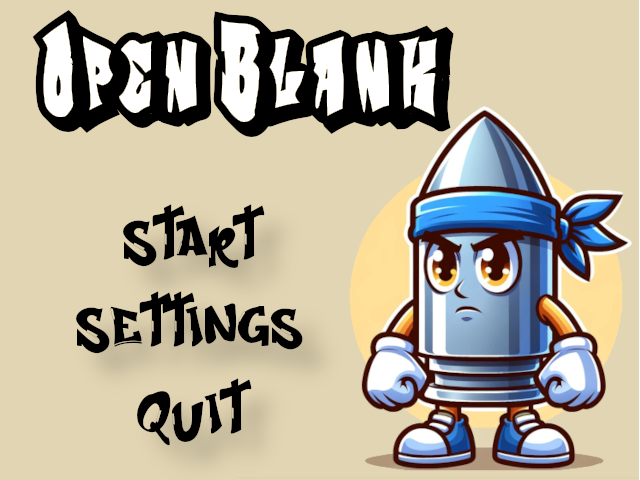
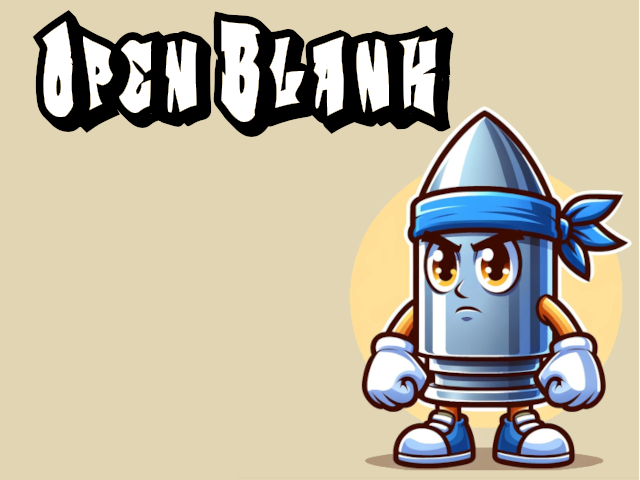
More work on the target system, textures loaded separately and made some more types of targets

Changed region(s): [[0.0938, 0.4062, 0.5, 0.7812], [0.1875, 0.7812, 0.4062, 0.9688]]

diff --git a/LTarget.cpp b/LTarget.cpp
@@ -14,20 +14,24 @@ LTarget::LTarget()
 	mWidth = 40; //FIXME
 	mHeight = 40;
 	mType = TARGET_NONE;
-	setDeathFunc(NULL);
+	setDeathFunc(nullptr);
 	//mCurrentSprite = BUTTON_SPRITE_MOUSE_OUT;
 }
 
 void LTarget::hit()
 {
 	//Target was hit, do some stuff
-	if (mType != TARGET_BUTTON)
+	//TODO this is skeleton code that will need to be replaced
+	if (mType != TARGET_BUTTON && mType != TARGET_IMAGE)
 	{
 		players[0].addHit (1);
 		fprintf (stdout, "HIT %i\n", players[0].getHits());
+		mType = TARGET_NONE;
+		free();
 	}
-	mType = TARGET_NONE;
-	callDeathFunc();
+
+	if (mType != TARGET_IMAGE)
+		callDeathFunc();
 
 }
 
@@ -86,56 +90,35 @@ void LTarget::movement()
 	}
 }
 
-bool LTarget::loadFromFile( std::string path )
+//TODO add custom function pointer stuff
+bool add_target (int x, int y, LTargetType type, int width, int height, int texture)
 {
-	//Get rid of preexisting texture
-	free();
-
-	//The final texture
-	SDL_Texture* newTexture = NULL;
-
-	//Load image at specified path
-	SDL_Surface* loadedSurface = IMG_Load( path.c_str() );
-	if( loadedSurface == NULL )
+	int i;
+	//Find an empty target spot
+	for (i = 0; i < MAX_TARGETS; i++)
 	{
-		printf( "Unable to load image %s! SDL_image Error: %s\n", path.c_str(), IMG_GetError() );
-	}
-	else
-	{
-		//Color key image
-		SDL_SetColorKey( loadedSurface, SDL_TRUE, SDL_MapRGB( loadedSurface->format, 0, 0xFF, 0xFF ) );
-
-		//Create texture from surface pixels
-        newTexture = SDL_CreateTextureFromSurface( gRenderer, loadedSurface );
-		if( newTexture == NULL )
+		fprintf (stdout, "#%i type %i\n", i, gTargets[i].getType());
+		//Fill it with the data
+		//TODO Add in defaults
+		if (gTargets[i].getType() == TARGET_NONE)
 		{
-			printf( "Unable to create texture from %s! SDL Error: %s\n", path.c_str(), SDL_GetError() );
+			fprintf (stdout, "Creating target #%i type %i\n", i, type);
+			gTargets[i].setPosition (x, y);
+			gTargets[i].setType (type);
+			fprintf (stdout, "Type is now %i\n", gTargets[i].getType());
+			gTargets[i].mHeight = height;
+			gTargets[i].mWidth = width;
+			gTargets[i].textureNumber = texture;
+			return true;
 		}
-		else
-		{
-			//Get image dimensions
-			mWidth = loadedSurface->w;
-			mHeight = loadedSurface->h;
-		}
-
-		//Get rid of old loaded surface
-		SDL_FreeSurface( loadedSurface );
 	}
-
-	//Return success
-	mTexture = newTexture;
-	return mTexture != NULL;
+	fprintf (stderr, "No target for you!");
+	return false;
 }
-
 
 void LTarget::free()
 {
 	//Free texture if it exists
-	if( mTexture != NULL )
-	{
-		SDL_DestroyTexture( mTexture );
-	}
-	mTexture = NULL;
 	mWidth = 0;
 	mHeight = 0;
 	mType = TARGET_NONE;
@@ -163,7 +146,7 @@ void LTarget::render()
 	}
 */
 	//Render to screen
-	SDL_RenderCopyEx( gRenderer, mTexture, NULL, &renderQuad, mAngle, &mCenter, mFlip );
+	SDL_RenderCopyEx( gRenderer, textures[textureNumber].getTexture(), NULL, &renderQuad, mAngle, &mCenter, mFlip );
 }
 
 

diff --git a/Title.cpp b/Title.cpp
@@ -20,16 +20,24 @@ void button_start_hit ()
 void Title::start()
 {
 	game.setState (STATE_TITLESCREEN);
-	if ( !gTitlescreen.loadFromFile ("./data/png/titlescreen.png"))
+	if ( !textures[0].loadFromFile ("./data/png/button_start.png"))
+	{
+		fprintf (stderr, "Error loading texture! %s\n", SDL_GetError ());
+		quit = true;
+	}
+	
+	if ( !textures[1].loadFromFile ("./data/png/titlescreen.png"))
 	{
 		fprintf (stderr, "Error loading texture! %s\n", SDL_GetError ());
 		quit = true;
 	}
 
-	gTargets[0].loadFromFile ("./data/png/button_start.png");
-	gTargets[0].setPosition (82, 193);
-	gTargets[0].setType (TARGET_BUTTON);
-	gTargets[0].setDeathFunc (button_start_hit);
+	//gTargets[0].loadFromFile ("./data/png/button_start.png");
+	add_target (0,0, TARGET_IMAGE, textures[1].getWidth() * SCALE_X, textures[1].getHeight(), 1);
+	add_target (82,193, TARGET_BUTTON, textures[0].getWidth() * SCALE_X, textures[0].getHeight(), 0);
+	gTargets[0].setDeathFunc (NULL);
+	gTargets[1].setDeathFunc (button_start_hit);
+	
 	//Load textures and setup buttons to shoot
 	/*
 	if (!gTitlescreen.loadFromFile ("./data/png/RedTarget.png)"))
@@ -43,14 +51,19 @@ void Title::start()
 
 void Title::stop()
 {
-	gTitlescreen.free();
+	//gTitlescreen.free();
+	textures[0].free();
 	gTargets[0].free();
+	textures[1].free();
+	gTargets[1].free();
+	
 	game.setState (STATE_ROUND_START);
 	game.setRound (0);
 	rnd.start();
 }
 void Title::render()
 {
+	/*
 	SDL_Rect r;
 	r.x = 0;
 	r.y = 0;
@@ -58,4 +71,5 @@ void Title::render()
 	r.h = SCREEN_HEIGHT;
 
 	gTitlescreen.render (0,0,&r);
+*/
 }

diff --git a/LTarget.h b/LTarget.h
@@ -7,6 +7,7 @@ enum LTargetType
 	TARGET_RED,
 	TARGET_BLUE,
 	TARGET_BUTTON,
+	TARGET_IMAGE, //A plain image that ignores the death callback
 };
 
 class LTarget
@@ -30,7 +31,7 @@ class LTarget
 		void hit();
 		int mWidth;
 		int mHeight;
-		bool loadFromFile (std::string path);
+		int textureNumber;
 		//void render( int x, int y, SDL_Rect* clip = NULL, double angle = 0.0, SDL_Point* center = NULL, SDL_RendererFlip flip = SDL_FLIP_NONE );
 		void render();
 		void free();
@@ -38,19 +39,22 @@ class LTarget
 		typedef void (*FunctionPointer)();
 		void setDeathFunc(FunctionPointer ptr) //Function to run when target is destroyed
 		{
+			fprintf (stdout, "Adding death func\n");
 			funcDeath = ptr;
 		}
 
 		void callDeathFunc() 
 		{
+			fprintf (stdout, "Calling death func\n");
 			if (funcDeath != nullptr) 
 				funcDeath();
+			else
+				fprintf (stderr, "callDeathFunc() called but no function definted\n");
 		}
 
 
 	private:
 		//Top left position
-		SDL_Texture* mTexture;
 		LTargetType  mType;
 		SDL_Point mPosition;
 		SDL_Rect mClip;
@@ -66,6 +70,4 @@ const int MAX_TARGETS = 4;
 extern LTarget gTargets[ MAX_TARGETS ]; 
 
 extern bool bounds_check (int x, int y, int w, int h);
-//extern LTexture gRedTargetTexture;
-//extern LTexture gBlueTargetTexture;
-//extern LTexture gCrosshairTexture;
+extern bool add_target (int x, int y, LTargetType type, int height, int width, int texture);

diff --git a/Round.cpp b/Round.cpp
@@ -2,6 +2,7 @@
 #include "LTarget.h"
 #include "OpenBlank.h"
 #include "Player.h"
+#include "LTexture.h"
 #include "Game.h"
 
 Round rnd; //I get around
@@ -71,18 +72,17 @@ int Round::getTarget ()
 static void round1_start ()
 {
 	fprintf (stdout, "Roooound 1.....FIGHT\n");
+	/*
 	if (!gTargets[0].loadFromFile ("./data/png/RedTarget.png"))
 	{
 		fprintf (stderr, "Error loading texture RedTarget\n");
 		quit = true;
 	}
-	
 	if (!gTargets[1].loadFromFile ("./data/png/BlueTarget.png"))
 	{
 		fprintf (stderr, "Error loading texture BlueTarget\n");
 		quit = true;
 	}
-
 	gTargets[0].setPosition (0, 0);
 	gTargets[1].setPosition (0, 40);
 	gTargets[0].setType (TARGET_RED);
@@ -91,7 +91,13 @@ static void round1_start ()
 	gTargets[0].mWidth = 40 * SCALE_X;
 	gTargets[1].mHeight = 40;
 	gTargets[1].mWidth = 40 * SCALE_X;
+*/	
+	textures[0].loadFromFile (TEXTURE_REDTARGET_PATH);
+	textures[1].loadFromFile (TEXTURE_BLUETARGET_PATH);
 
+	add_target (0,0, TARGET_RED, 40 * SCALE_X, 40, 0);
+	fprintf (stdout, "Back in Round it's now become %i \n", gTargets[0].getType());
+	add_target (0,40, TARGET_BLUE, 40 * SCALE_X, 40, 1);
 	rnd.setTarget(2);
 	rnd.setRoundUpdate(round1_update);
 }

diff --git a/LTexture.h b/LTexture.h
@@ -37,6 +37,7 @@ class LTexture
 		//Gets image dimensions
 		int getWidth();
 		int getHeight();
+		SDL_Texture* getTexture();
 
 	private:
 		//The actual hardware texture
@@ -47,6 +48,9 @@ class LTexture
 };
 
 #define MAX_TEXTURES 10
+
+#define TEXTURE_REDTARGET_PATH "./data/png/RedTarget.png"
+#define TEXTURE_BLUETARGET_PATH "./data/png/BlueTarget.png"
 
 extern LTexture textures[MAX_TEXTURES];
 extern LTexture gRedTargetTexture;

diff --git a/Detect.cpp b/Detect.cpp
@@ -18,7 +18,9 @@ bool detect_shot ()
 {
 	//fprintf (stdout, "Detecting shots\n");
 	int i;
-	for (i = 0; i < MAX_TARGETS; i++)
+	//Reverse order because we don't have Z depth, yet
+	//TODO Use z depth
+	for (i = MAX_TARGETS; i >= 0; i--)
 	{
 	//	fprintf(stdout, "Check target %i\n", i);
 		if (check_target(i) == true)

diff --git a/SDL.cpp b/SDL.cpp
@@ -105,6 +105,7 @@ bool sdl_init()
 
 void sdl_close()
 {
+	fprintf (stdout, "Shutting down SDL\n");
 	//Free loaded images
 	gRedTargetTexture.free();
 	gBlueTargetTexture.free();

diff --git a/LTexture.cpp b/LTexture.cpp
@@ -153,3 +153,9 @@ int LTexture::getHeight()
 {
 	return mHeight;
 }
+
+SDL_Texture* LTexture::getTexture()
+{
+	return mTexture;
+}
+
